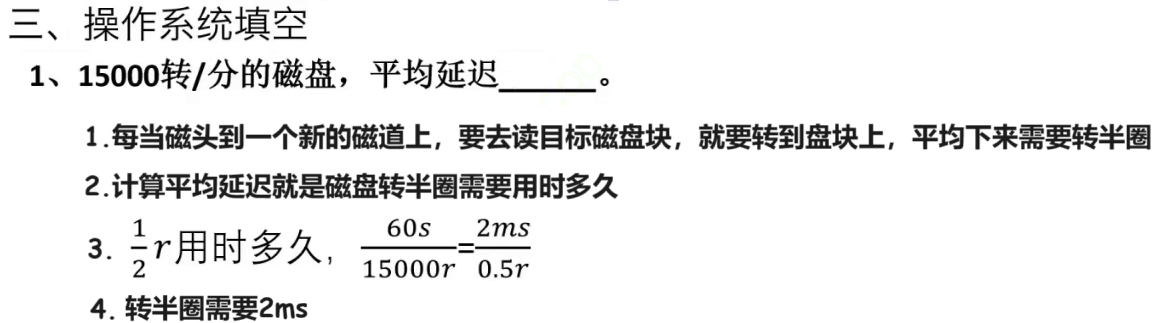
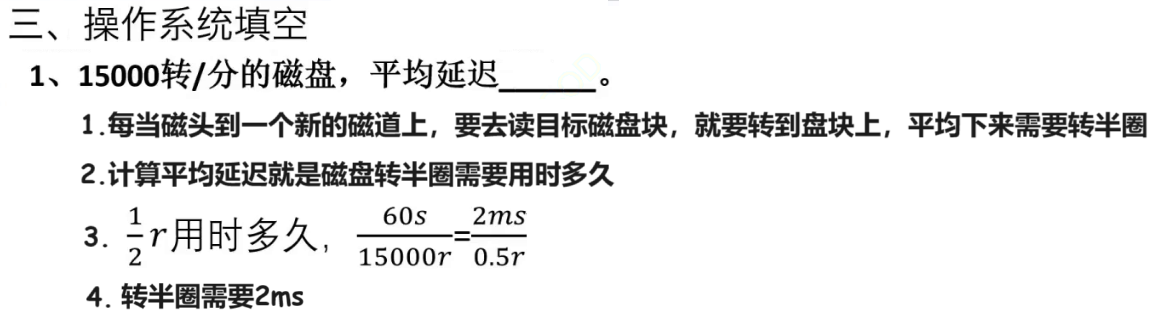
240102

diff --git a/04 每日一题/01 820/05 23/02 操作系统部分/02 填空题/01 磁盘 平均延迟 240102/01 Doc.md b/04 每日一题/01 820/05 23/02 操作系统部分/02 填空题/01 磁盘 平均延迟 240102/01 Doc.md
@@ -1,6 +1,6 @@
 # 00 背诵
 
-
+<img src="https://cvp.oss-cn-shanghai.aliyuncs.com/picgo/202401022144414.png" alt="image-20240102214449365" style="zoom:50%;" />
 
 
 
